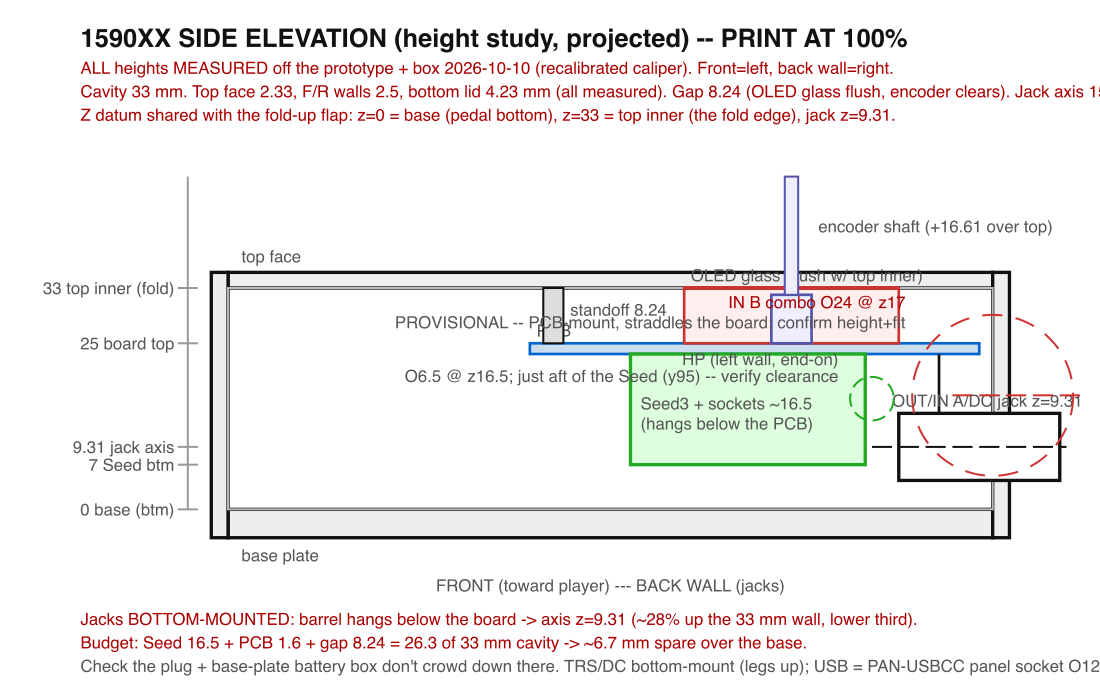
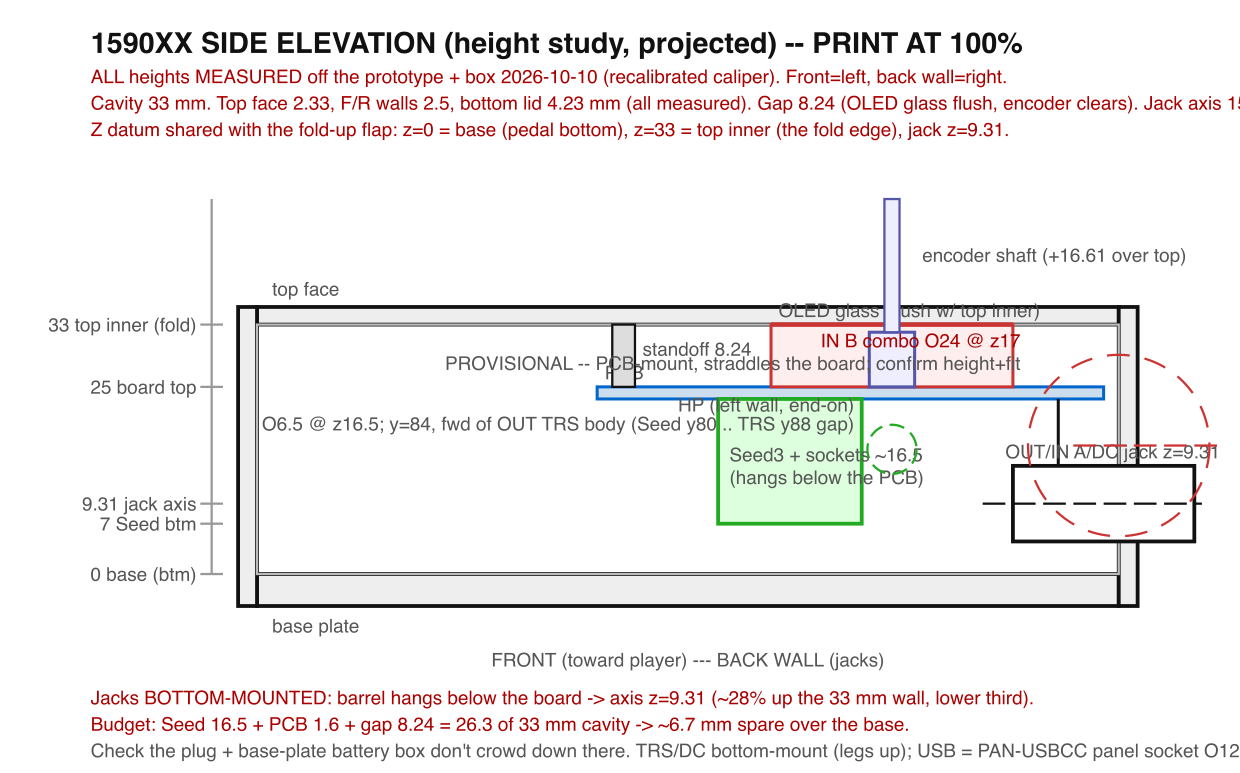
pcb+enclosure: move HP jack fwd (y96->84) to clear OUT TRS; lock RS PRO 907-5680 (O8)
- HP moved fwd into the Seed<->TRS gap so its barrel clears the OUT TRS body in
  DEPTH (~5-11mm margin), not vertically. Verified vs real footprint extents:
  Seed (U4) is at enc_X 44-97, so the left-wall barrel path (x0-13) never reaches it.
- enclosure.py: HP y 96->84; hole O6.5->O8 for the locked jack's M8x0.75 thread.
- board silk: HP barrel-projection line + ticks + label moved y71->59 (rear-jack
  reference line left alone).
- side elevation: HP now refs e.LEFT (no drift); Seed depth 95->80 (real U4 footprint).
- HP part locked: RS PRO 907-5680 (RS ZA, in stock) = identical drawing to the Cliff
  FC681375VH (M8/O8, 13mm body).
- regenerated mockup + side-elevation SVG/PDF/PNG.

diff --git a/pcb/tools/enclosure.py b/pcb/tools/enclosure.py
@@ -107,16 +107,27 @@ COMBO_Z = 17.0          # ⚠ PROVISIONAL barrel-axis height: deliberately highe
 REAR = [  # (board_ref, label, x_enclosure, dia_or_wh, kind, z_axis)
     ("J2",  "OUT",  24.2,  10.0,        "trs",  JACK_Z),
     (None,  "USB",  46.0,  12.0,        "usbc", USB_Z),  # PAN-USBCC panel socket, O12 nut-mount; Seed USB via lead
-    ("J3",  "DC",   64.0,  12.0,        "dc",   JACK_Z),  # panel jack + flying lead -- x is a design choice
+    ("J3",  "DC",   64.0,  12.0,        "dc",   JACK_Z),  # panel jack + flying lead; x is a design choice. Ø12 = generic DC-022/099 (local). ⚠ DRILL-TIME FINALISE to the part actually used (Cliff FC681473 = ½"/M12.7 → Ø13).
     ("J8",  "IN B", 88.0,  COMBO_D,     "combo",COMBO_Z), # IN B = NCJ9FI-H combo (O24 + 2x M3, mark from part); x reverse-synced from the board (combo centre kicad 77.0, hard against IN A) 2026-10-30
     ("J1",  "IN A", 113.8, 10.0,        "trs",  JACK_Z),   # IN A outermost-right (primary guitar input)
 ]
 
 # LEFT wall holes (X=0 wall), viewed from outside. HP jack on a 3.5 mm panel socket + flying lead to J11.
 # Toward the REAR but FWD of the OUT jack body so it is clear in front of it.
-HP_Z = 16.5             # ⚠ mid-wall; verify internal clearance (board bottom ~23, under-board barrels/Seed)
+HP_Z = 16.5             # under-board; the barrel runs in +X from the left wall through the under-board space
+# ⚠ HP PART LOCKED 2026-10-30: RS PRO 907-5680 (Distrelec 304-05-122) -- 3.5 mm stereo switched jack,
+#   vertical-PCB + NUT, panel-mount. LOCAL: in stock at RS ZA (~R27/unit, the enclosure's own channel).
+#   M8x0.75 thread -> panel hole O8; 4.5 mm bushing; 13.0 mm body behind the panel (17.4 overall); O10 nut,
+#   ~2 mm front projection; 3-pole stereo + switch; flying leads solder to the PCB pins. Datasheet:
+#   electronics-inventory-private/datasheets/RS_PRO_907-5680_3.5mm_stereo_panel_jack.pdf (p3). IDENTICAL
+#   drawing to the Cliff FC681375VH (imported equivalent, same M8/O8/13mm). Lumberg KLB 4 (RS 505-1429,
+#   solder-lug type) is DISCONTINUED at RS ZA; Micro Robotics has no panel 3.5 mm socket.
 LEFT = [  # (board_ref, label, y_enclosure, dia, kind, z_axis)
-    ("J11", "HP", 96.0, 6.5, "hp", HP_Z),   # y=96 is FWD of the OUT body (JACK_Y 102.9); 3.5 mm -> O6.5
+    # ⚠ MOVED FWD 96 -> 84 (2026-10-30): clear the OUT TRS (J2) body in DEPTH, not vertically. J2 footprint
+    #   front is enc_y 88.3; at y=84 the 13.0 mm RS PRO body (y 80.75-87.25 barrel) sits in the Seed<->TRS gap,
+    #   fwd of the TRS body (~5-11 mm margin). The Seed (U4) is at enc_X 44-97, so the x0-13 barrel path
+    #   never reaches it. Hole O8 for the M8x0.75 thread (was O6.5 for a generic 3.5 mm).
+    ("J11", "HP", 84.0, 8.0, "hp", HP_Z),
 ]
 
 def panel_anchors_board():

diff --git a/pcb/tools/gen_side_elevation_svg.py b/pcb/tools/gen_side_elevation_svg.py
@@ -40,7 +40,9 @@ Z_BRD_BOT  = Z_BRD_TOP - PCB_T
 BRD_Y0, BRD_Y1 = e.BRD_Y0, e.BRD_Y1   # board depth span (shared with enclosure.py)
 
 SEED_STACK = 16.5                # ✅ MEASURED (proto): mounting surface -> USB top = 16.5 (conservative)
-SEED_Y0, SEED_Y1 = 60.0, 95.0    # where the Seed sits (depth)
+SEED_Y0, SEED_Y1 = 61.0, 80.0    # Seed depth span -- from the U4 footprint bbox (enc_y 61.2..80.0), 2026-10-30.
+                                 #   (was 60..95 conservative; the module is crosswise so its LONG axis is X 44..97,
+                                 #    Y is the ~19 mm module width; USB-C faces player-LEFT in -X, not +Y.)
 
 OLED_GLASS_UNDER = 0.0           # ✅ glass at 8.24 above board (2x2.54 spacers) = the gap -> flush with the top-face inner
 Z_GLASS    = H_INT - OLED_GLASS_UNDER
@@ -139,9 +141,10 @@ s += _txt(DX(DEPTH)-e.COMBO_D/2-1, ZY(e.COMBO_Z)-e.COMBO_D/2-1, f"IN B combo O{e
 s += _txt(DX(DEPTH)-e.COMBO_D/2-1, ZY(e.COMBO_Z)-e.COMBO_D/2+2, "PROVISIONAL -- PCB-mount, straddles the board; confirm height+fit", 'dim', 'end')
 
 # --- HP jack on the LEFT wall, shown END-ON (its barrel runs in X, out of this section plane) ---
-s += _circ(DX(96), ZY(e.HP_Z), 6.5, stroke='#2a2', dash='2 1')
-s += _txt(DX(96)-5, ZY(e.HP_Z)-5.0, "HP (left wall, end-on)", 'dim', 'end')
-s += _txt(DX(96)-5, ZY(e.HP_Z)-2.5, f"O6.5 @ z{e.HP_Z:g}; just aft of the Seed (y95) -- verify clearance", 'dim', 'end')
+_hp_y = e.LEFT[0][2]
+s += _circ(DX(_hp_y), ZY(e.HP_Z), 6.5, stroke='#2a2', dash='2 1')
+s += _txt(DX(_hp_y)-5, ZY(e.HP_Z)-5.0, "HP (left wall, end-on)", 'dim', 'end')
+s += _txt(DX(_hp_y)-5, ZY(e.HP_Z)-2.5, f"O6.5 @ z{e.HP_Z:g}; y={_hp_y:g}, fwd of OUT TRS body (Seed y80 .. TRS y88 gap)", 'dim', 'end')
 
 # --- Z dimension scale on the left ---
 xs = LM - 6
